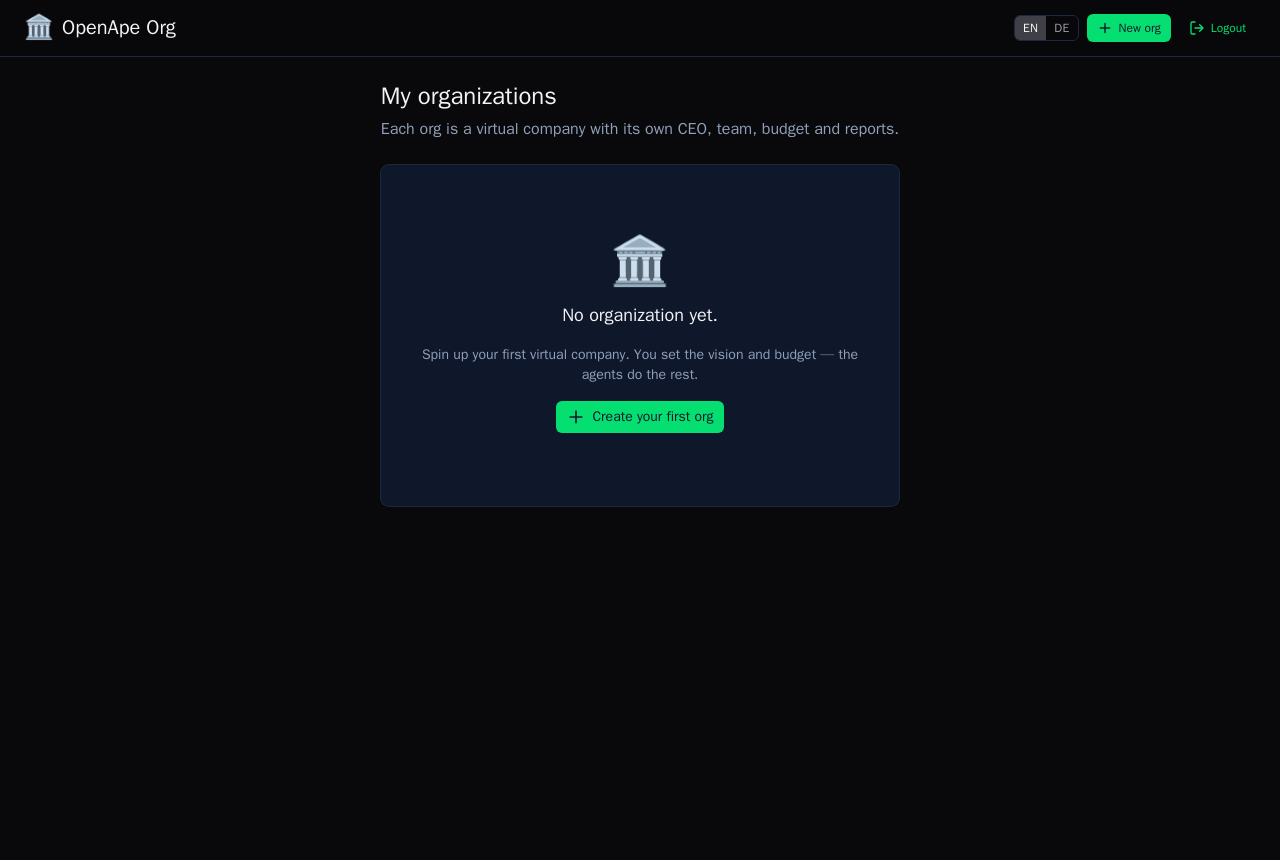
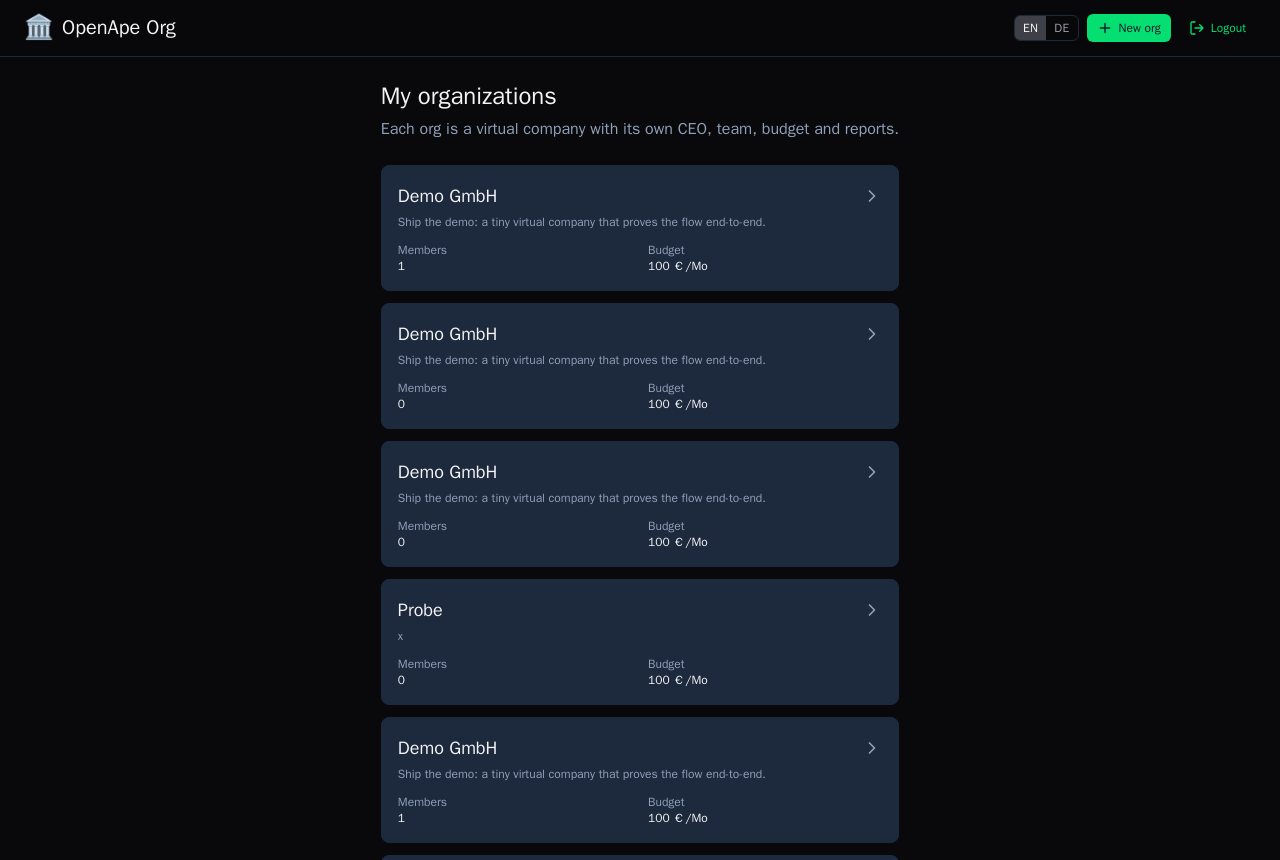
docs(org): 'Add a CEO to your org' guide from E2E
M4: a real end-to-end story (compose/agent/org-ceo.mjs) drives the
cross-SP CEO spawn — create org, add the CEO seat, approve the one-time
delegation consent, CEO goes active — and generates the openape-org
/docs guide. The org guide moves to the agent run (its last story spawns
a real agent, so it needs a bound nest); removed org from the demo run.
Includes the redesign plans.

Changed region(s): [[0.2812, 0.5442, 0.7188, 1.0], [0.2812, 0.2116, 0.7188, 0.514]]

diff --git a/apps/openape-org/app/docs.generated.ts b/apps/openape-org/app/docs.generated.ts
@@ -1,2 +1,2 @@
 // AUTO-GENERATED from docs/stories.json by scripts/build-docs.mjs — do not edit.
-export const docsGuide = {"categories":[{"title":"Getting started","stories":[{"id":"sign-in","title":"Sign in","introHtml":"<p>Org runs your CEO-led agent organizations. Like every OpenApe app it signs you in via DDISA SSO — same passkey, same IdP.</p>\n","steps":[{"title":"Open Org","html":"The start page is the sign-in: enter your email and continue.","shot":"/docs/screenshots/sign-in/01-landing.png"},{"title":"Signed in — your organizations","html":"On first visit the list is empty — each org you create is a virtual company with its own CEO, team, budget and reports.","shot":"/docs/screenshots/sign-in/02-home-empty.png"}]}]},{"title":"Organizations","stories":[{"id":"create-org","title":"Create your first org","introHtml":"<p>An org starts with three things: a name, a vision the CEO will read, and a monthly budget cap the Sanierer enforces.</p>\n","steps":[{"title":"Start a new organization","html":"Click <strong>Create your first org</strong>. The dialog asks for the basics — you can refine the vision and grow the team later.","shot":"/docs/screenshots/create-org/01-dialog.png"},{"title":"Name, vision, budget","html":"The vision is plain prose — the CEO reads it. The monthly budget is the hard cap: above it, the Sanierer stops the CEO from hiring more.","shot":"/docs/screenshots/create-org/02-filled.png"},{"title":"Create","html":"The org page opens: org chart, members, cost dashboard and reports — empty for now, ready for a CEO.","shot":"/docs/screenshots/create-org/03-org-page.png"}]}]}]}
+export const docsGuide = {"categories":[{"title":"Getting started","stories":[{"id":"sign-in","title":"Sign in","introHtml":"<p>Org runs your CEO-led agent organizations. Like every OpenApe app it signs you in via DDISA SSO — same passkey, same IdP.</p>\n","steps":[{"title":"Open Org","html":"The start page is the sign-in: enter your email and continue.","shot":"/docs/screenshots/sign-in/01-landing.png"},{"title":"Signed in — your organizations","html":"On first visit the list is empty — each org you create is a virtual company with its own CEO, team, budget and reports.","shot":"/docs/screenshots/sign-in/02-home-empty.png"}]}]},{"title":"Organizations","stories":[{"id":"create-org","title":"Create your first org","introHtml":"<p>An org starts with three things: a name, a vision the CEO will read, and a monthly budget cap the Sanierer enforces.</p>\n","steps":[{"title":"Start a new organization","html":"Click <strong>Create your first org</strong>. The dialog asks for the basics — you can refine the vision and grow the team later.","shot":"/docs/screenshots/create-org/01-dialog.png"},{"title":"Name, vision, budget","html":"The vision is plain prose — the CEO reads it. The monthly budget is the hard cap: above it, the Sanierer stops the CEO from hiring more.","shot":"/docs/screenshots/create-org/02-filled.png"},{"title":"Create","html":"The org page opens: org chart, members, cost dashboard and reports — empty for now, ready for a CEO.","shot":"/docs/screenshots/create-org/03-org-page.png"}]},{"id":"add-ceo","title":"Add a CEO to your org","introHtml":"<p>Your org&#39;s first hire is a CEO — an agent spawned from a pinned recipe and bound to this org. You approve a one-time delegation at your IdP; from then on the CEO runs on your own nest under your account, reading your vision and proposing objectives.</p>\n","steps":[{"title":"Add the CEO seat","html":"Open <strong>Add member</strong>, choose the <strong>CEO</strong> role and name it. Leave the email blank — the org creates a placeholder seat you fill by spawning. (CEO + Sanierer sit at the top of the chart; the Sanierer keeps the CEO honest about cost.)","shot":"/docs/screenshots/add-ceo/01-add-ceo.png"},{"title":"Approve the one-time delegation","html":"Spawning asks your consent <strong>once</strong>. The IdP shows exactly what org may do on your behalf — <em>spawn agents on your troop</em> — as a standing, revocable grant. This is a top-level redirect to your IdP; org never sees your IdP session. Approve it.","shot":"/docs/screenshots/add-ceo/02-consent.png"},{"title":"The CEO is live","html":"Within seconds the CEO is <strong>active</strong> on your nest, with its own <code>…@id.openape.ai</code> identity. It reads your vision live and starts proposing objectives — and you can revoke the delegation at your IdP any time to cut it off.","shot":"/docs/screenshots/add-ceo/03-active.png"}]}]}]}

diff --git a/.claude/plans/m4-cross-sp-redirect-code.md b/.claude/plans/m4-cross-sp-redirect-code.md
@@ -1,0 +1,91 @@
+# Plan: M4 Cross-SP-Spawn auf Redirect+Code umbauen (CORS raus)
+
+> Supersedet den implementierten M4β-Pfad „B: IdP-CORS + Browser-fetch" zugunsten des
+> ursprünglichen Plan-Intents (Redirect → Code, [[org-plan 01KSYCHBQ7]] M4β Schritt 2-4).
+> Auth-sensibel + Prod-Impact → **Freigabe vor Implementierung**.
+
+## Warum
+Der gebaute Flow lässt den **Browser** (org-Origin) zwei stille Calls gegen den IdP machen
+(`findStandingGrant` + `fetchAuthzJwt`, `credentials:include`) → braucht **CORS-Allowlist +
+`sameSite=none`-Cross-Origin-Cookies** am IdP (`cors-preflight.ts` + `session.ts`). Das ist
+unnötige Angriffsfläche. Patricks Einwand: der Owner ist am IdP authentifiziert — der grant/token-
+Teil gehört als **Top-Level-Redirect** dorthin, der org-**Server** holt das Token server-to-server.
+
+## Ziel-Flow (OAuth Authorization-Code + PKCE, bestehende IdP-Infra wiederverwenden)
+1. **org-Server** baut Authorize-URL zum IdP: `delegate=org.openape.ai, audience=troop.openape.ai,
+   scopes=troop:spawn-agent, grant_type=always, code_challenge=<S256>, redirect_uri=<org-callback>,
+   state=<csrf>, member=<email>`. Browser macht **Top-Level-Navigation** dorthin.
+2. **IdP** (Owner-Session, same-origin): hat der Owner schon einen Standing-Grant
+   (delegate/audience/scope/`always`)? → **ja:** sofort einen **Auth-Code** ausstellen (an
+   `code_challenge`+Grant gebunden). **nein:** die bestehende **Consent-Page** (`grant-cross-sp.vue`)
+   zeigen → Approve erstellt den Standing-Grant (`grant-cross-sp.post.ts`, unverändert) → Auth-Code.
+3. IdP **redirectet zum org-`redirect_uri`** mit `?code=…&state=…` (KEIN JWT in der URL).
+4. **org-Server-Callback** löst den Code am IdP-Token-Endpoint ein (`code` + `code_verifier`,
+   server-to-server, **kein Cookie/kein CORS**) → bekommt den **AuthZ-JWT** (subject_token,
+   `aud=apes-cli, sub=Owner, delegate=org, scopes`). Identisch zum heutigen Token, nur anders geliefert.
+5. org-Server fährt den **bestehenden** Pfad weiter: `troop /api/cli/exchange` → `spawn-intent`
+   → Member-Row `spawnStatus='pending'` → Poll → `active`. (spawn.post.ts bleibt fast unverändert;
+   `subject_token` kommt jetzt aus Schritt 4 statt aus dem Browser.)
+
+**Ergebnis:** Browser macht NUR Navigationen. CORS-Allowlist + sameSite=none für diesen Flow weg.
+
+## Sicherheit (nicht verhandelbar)
+- **PKCE S256** (org generiert `code_verifier`, schickt nur `code_challenge`) → Code-Abfangen nutzlos ohne Verifier. Kein Client-Secret nötig (org-SP ist „public" wie apes-cli).
+- **Code:** one-time, kurz-TTL (≤60s), an `code_challenge` + `delegate` + `redirect_uri` gebunden; Replay-geschützt (consumed-Flag).
+- **`redirect_uri`-Allowlist** am IdP (exakter Match, kein Wildcard) → Open-Redirect/Token-Exfil verhindern. org-Callback-URI vorab registriert (wie apes-cli loopback).
+- **`state`** CSRF-Schutz org-seitig (Session-gebunden).
+- **Owner-Auth weiterhin Pflicht** am IdP (Session) bevor ein Code ausgestellt wird — bei fehlender Session normaler IdP-Login (Passkey).
+- Code-Exchange am IdP authentifiziert den org-SP über `client_id` + PKCE-Verifier (kein geteiltes Secret).
+
+## Betroffene Dateien
+**IdP (`modules/nuxt-auth-idp`):**
+- `…/routes/authorize.get.ts` (+ `api/authorize/consent.*`): Delegation-Modus — Authorize mit
+  `delegate/audience/scopes/grant_type` → Standing-Grant-Check → Code (oder Consent→Code). Möglichst
+  als Erweiterung der bestehenden Authorize/Consent-Maschinerie.
+- `…/routes/token.post.ts` (oder neuer `…/api/grants/authorize-token`): Code+Verifier → **AuthZ-JWT**
+  (statt normalem Access-Token) via vorhandenem `issueAuthzJWT` (heute in `grants/[id]/token.post.ts`).
+- `grant-cross-sp.vue` / `grant-cross-sp.post.ts`: in den Authorize-Flow einhängen (Approve → Code), statt eigenständig `grant_id` per `return_to` zurückzugeben.
+- **Entfernen/zurückbauen:** CORS-Abhängigkeit — `cors-preflight.ts` Allowlist für diesen Flow nicht mehr nötig; `session.ts` sameSite=none nur noch falls anderweitig gebraucht (prüfen!). `grants/index.get.ts?role=delegator` + `grants/[id]/token.post.ts` als Browser-credentials-Pfad nicht mehr aufgerufen (ggf. behalten für andere Consumer — prüfen).
+
+**org (`apps/openape-org`):**
+- `app/pages/orgs/[id].vue`: `findStandingGrant`/`fetchAuthzJwt`/`spawnWithGrant` raus; `onSpawnAgent`
+  → `GET /api/orgs/[id]/members/[email]/spawn-authorize` (org-Server baut Authorize-URL + PKCE, setzt state/verifier in Server-Session) → `window.location` dorthin. Return-Handler entfällt großteils.
+- **NEU** `server/api/orgs/[id]/members/[email]/spawn-authorize.get.ts`: baut Authorize-URL + PKCE.
+- **NEU** `server/routes/oauth/spawn-callback.get.ts` (o.ä.): empfängt `code/state`, validiert state,
+  Code-Exchange am IdP → subject_token → ruft die bestehende Spawn-Logik → redirect zurück auf `/orgs/[id]`.
+- `server/api/orgs/[id]/members/[email]/spawn.post.ts`: zu interner Funktion refactoren, die der Callback
+  mit dem server-seitig geholten subject_token aufruft (kein Body-subject_token aus dem Browser mehr).
+
+**local-stack:** `NUXT_OPENAPE_IDP_CORS_ALLOWED_ORIGINS` (gerade testweise gesetzt) wird **wieder
+entfernt** — der neue Flow braucht es nicht.
+
+## Milestones (je unabhängig verifizierbar, max. 1/Session)
+- **M0 — Baseline & Spike-Findings festhalten.** (DONE im Spike: org-SSO+create-org+add-member laufen
+  im local-stack; einzige Lücke war CORS bei `findStandingGrant`. Beweist: nur der grant/token-Teil ist betroffen.)
+- **M1 — IdP: Delegation-Authorize+Code+Exchange.** Authorize-Endpoint (Delegation-Modus, PKCE) +
+  Token-Exchange→AuthZ-JWT. Unit/Integration: Code one-time, PKCE-Mismatch→reject, redirect_uri-Allowlist,
+  Standing-Grant→skip-Consent. **Akzeptanz:** Test-Suite grün; manueller curl/headless: Authorize→Code→Exchange liefert gültigen AuthZ-JWT (`aud=apes-cli, sub=owner, delegate=org`).
+- **M2 — org: authorize-redirect + server-callback + Spawn refactor.** **Akzeptanz:** im local-stack
+  (Nest gebunden, `--no-deps`) klick-äquivalent: Spawn → Redirect IdP → (Consent) → Callback → CEO `active`.
+  **OHNE** `NUXT_OPENAPE_IDP_CORS_ALLOWED_ORIGINS`.
+- **M3 — CORS/sameSite-Rückbau + Regressions-Check.** Allowlist-Dep entfernen wo möglich; prüfen, dass
+  kein anderer Flow (chat/troop) sie noch braucht. **Akzeptanz:** lint+typecheck+betroffene Tests grün; bestehende cross-SP-Consumer unverändert funktionsfähig.
+- **M4 — E2E-Story + Guide (das ursprüngliche Ziel).** `compose/agent/org-ceo.mjs` fährt den neuen Flow
+  (create-org→CEO-Sitz→Consent-Redirect→CEO aktiv), `distribute-docs.mjs` → org-`/docs`-Guide „Add a CEO".
+  **Akzeptanz:** Re-Run = 0 PNG-Diffs (Determinismus #632); `org.openape.test/docs/add-ceo` rendert; Screenshot an Patrick.
+
+## Rollout / Backward-Compat (Prod)
+- Prod-org+IdP laufen den CORS-Flow. Umstellung: IdP-Seite (neue Authorize/Exchange) ist additiv →
+  zuerst deployen, alter Pfad bleibt. Dann org auf den neuen Flow. Erst danach CORS-Allowlist am IdP entfernen.
+- Reihenfolge der PRs: IdP (additiv) → org (Umschalten) → IdP-Cleanup (CORS raus). Jeder mit grünem CI, getrennt mergebar.
+- Jeder Schritt einzeln deploybar (`deploy:image idp` / `org`), Rollback per Tag-Pin.
+
+## Offene Fragen (vor M1 klären)
+1. **Reuse-Grad:** den bestehenden `authorize.get.ts`/`token.post.ts` erweitern (Delegation-Modus als
+   zusätzlicher `response`-Pfad) ODER dedizierte `…/api/grants/authorize` + `…/authorize-token`? — Tendenz: dedizierter Delegation-Authorize, um den OIDC-Login-Pfad nicht zu verkomplizieren, aber PKCE/Code-Store teilen.
+2. **AuthZ-JWT-TTL** (heute via `grants/[id]/token`): unverändert übernehmen.
+3. **Bleiben `grants/index.get.ts?role=delegator` + `grants/[id]/token.post.ts` als Browser-Endpoints** für
+   andere Consumer (M4δ Owner-Grant-Management)? → falls ja, CORS evtl. nur dort nötig → in M3 prüfen.
+
+## Status
+- [x] M0 Spike-Findings  [ ] M1 IdP  [ ] M2 org  [ ] M3 CORS-Rückbau  [ ] M4 Story+Guide

diff --git a/.claude/plans/org-ceo-e2e-guide.md b/.claude/plans/org-ceo-e2e-guide.md
@@ -1,0 +1,65 @@
+# Plan: E2E-Story + Guide „Einen CEO im Org anlegen"
+
+## Ziel
+Eine **E2E-Story** (`compose/demo/`-Story-DSL), die den echten Flow „Org anlegen → CEO-Mitglied hinzufügen → Cross-SP-Consent → CEO spawnen → CEO aktiv" durchfährt und daraus den **`/docs`-Guide** der org-App generiert (`org.openape.ai/docs` → „Add a CEO to your org"). Test = Quelle der Wahrheit für die Anleitung (Patrick-Prinzip „Manuals aus E2E").
+
+## Kontext / Befund (verifiziert 2026-06-10)
+Der Flow ist **vollständig gebaut**:
+- **Org anlegen:** `POST /api/orgs` + `CreateOrgDialog` → `/orgs/{id}` (Story `create-org` existiert schon in `compose/demo/stories/org.mjs`).
+- **CEO-Mitglied:** `AddMemberDialog` (role-enum `ceo|teamlead|specialist|sanierer|other`), `POST /api/orgs/{id}/members` → Platzhalter-Row `status='invited'`, Platzhalter-Email `pending+<uuid>@org.openape.ai`.
+- **Spawn-Trigger:** Chart-Card „Spawn agent" → `onSpawnAgent()` (`apps/openape-org/app/pages/orgs/[id].vue:186`):
+  - `findStandingGrant()` → `GET {idp}/api/grants?role=delegator` mit `credentials:include` (braucht **CORS-Allowlist + sameSite=none** Cookie am IdP).
+  - Kein Grant → Bounce auf `{idp}/grant-cross-sp?delegate=org.openape.ai&audience=troop.openape.ai&scopes=troop:spawn-agent&grant_type=always&return_to=…` (M4γ Consent-Page; **existiert**: `modules/nuxt-auth-idp/src/runtime/pages/grant-cross-sp.vue` + `…/server/api/grant-cross-sp.post.ts`).
+  - Zurück mit `?grant_id` → `spawnWithGrant()` → `fetchAuthzJwt()` (`POST {idp}/api/grants/{id}/token`) → `POST /api/orgs/{id}/members/{email}/spawn`.
+- **Server-Dance** (`apps/openape-org/server/api/orgs/[id]/members/[email]/spawn.post.ts`): `POST {troop}/api/cli/exchange` (scope `troop:spawn-agent`) → `POST {troop}/api/agents/spawn-intent` mit Recipe-Ref aus `role-defaults.ts` (`github.com/openape-ai/agent-catalog/ceo@v0.1.0`, params `{org_id, org_name}`) → Member-Row cached `spawnIntentId`/`spawnStatus='pending'`.
+- **Poll + PK-Swap:** Frontend pollt `GET …/spawn-status` (2s) → bei Erfolg Platzhalter-Row löschen, echte Agent-Email-Row `status='active'`.
+
+**Recipe-Pfad selbst ist bereits live bewiesen** (diese Session): troop validiert `ceo@v0.1.0` (schedules:[]-Fix #633 deployed) und der Nest provisioniert den Agent (`spawn result ok:true`, IdP-Identity gemintet) — siehe [[reference_local_stack_agent_lifecycle]].
+
+## Kern-Problem (warum > Story-Datei)
+1. **Der Demo-Runner (`compose/demo/run-stories.mjs`) hat KEINEN gebundenen Nest** → der Spawn würde nie „active". Nur der **agent-lifecycle-Run** (`compose/agent/run.sh` → bind.mjs) bindet einen Nest. Die Story muss also im agent-lifecycle-Umfeld laufen, nicht im reinen Demo-Run.
+2. **Cross-SP-Consent (M4γ)** muss in der Story durchfahrbar sein: CORS-Allowlist org→idp im local-stack + Consent-Approval per Virtual-Authenticator. **Beides im local-stack unbestätigt** (kein sichtbares CORS-Env in `compose/local-stack.yml`).
+3. Die Story braucht eine **Org-SP-Session** (DDISA-SSO in die org-App) zusätzlich zur Owner-IdP-Session.
+
+## Empfohlener Ansatz: **A — im agent-lifecycle-Run**
+Neue Story-Datei `compose/agent/org-ceo.mjs` (analog zur diese Session genutzten ceo-spawn-Probe), die NACH `run.sh` (Nest gebunden, Owner-Login provisioniert) läuft, die org-UI über den Virtual-Authenticator-Browser-Context fährt und den Guide-Manifest-Fragment schreibt. So zeigt der Guide den CEO **wirklich aktiv** (echtes E2E), nicht nur „pending".
+
+Alternative B (Fallback, falls Cross-SP im local-stack nicht durchfahrbar): Story im Demo-Run bis „pending"-Card + Consent-Screenshot, Aktivierung im Caption beschrieben. Schwächer (Endzustand beschrieben statt gezeigt) — nur falls A an einem nicht-vertretbaren local-stack-Gap scheitert.
+
+## Milestones (je unabhängig verifizierbar, max. 1/Session)
+
+### M1 — Spike: Flow im laufenden local-stack manuell durchfahren (DE-RISK)
+Bevor Story-Code: beweisen, dass org→CEO-Spawn im local-stack E2E geht.
+- Skript/headless (Virtual-Authenticator) im laufenden Stack (Nest ist gebunden): org.openape.test einloggen (SSO) → org anlegen → CEO-Member adden → „Spawn agent" → Consent → zurück → poll → `status='active'`.
+- **Knackpunkte zu klären:** (a) CORS: erlaubt der local-idp `org.openape.test` als Origin für `credentials:include`? Falls nein → `NUXT_OPENAPE_*CORS*`/Allowlist-Env in `compose/local-stack.yml` ergänzen (idp). (b) Consent-Auto-Approve per Virtual-Authenticator (wie andere DDISA-Approvals in den Stories). (c) troop `/api/cli/exchange` akzeptiert das org-delegierte Token im local-stack.
+- **Akzeptanz:** ein manuell/skriptgetriebener Durchlauf endet mit org-Member-Row `status='active'` + realer `ceo-…@id.openape.test`-Email (DB-Query oder UI-Card „active"). Beobachtbarer Output gezeigt.
+- **Output des Milestones:** dokumentierte exakte Schritte/Selektoren/etwaige local-stack-Env-Fixes → Input für M2.
+
+### M2 — Story schreiben + verdrahten
+- `compose/agent/org-ceo.mjs`: `kit.story({ app:'openape-org', category:'Organizations', id:'add-ceo', title:'Add a CEO to your org', … })` mit Steps (+ Captions als Guide-Text):
+  1. „Create the organization" (Name/Vision/Budget) — *shot*
+  2. „Add the CEO seat" (AddMemberDialog, role=CEO) — *shot*
+  3. „Approve the one-time delegation" (Consent-Page erklärt: org darf in deinem Namen einen Agent auf troop spawnen) — *shot*
+  4. „Spawn the CEO" (Card pending → active) — *shot*
+  5. „Your CEO is live" (aktive Card, reads vision) — *shot*
+- In `compose/agent/run.sh` nach `lifecycle.mjs` (oder als eigener Schritt) `pw org-ceo.mjs` aufrufen; `compose/distribute-docs.mjs` verteilt das Fragment in die org-App (`apps/openape-org/public/docs/stories.json` + screenshots).
+- Determinismus: `installDeterminism(page)` nutzen (#632) → byte-stabile Screenshots.
+- **Akzeptanz:** `lint`+`typecheck` grün; Story-Datei folgt dem DSL-Vertrag (`story-kit.mjs`).
+
+### M3 — Capture + Guide verifizieren + zeigen
+- Vollen agent-lifecycle-Run inkl. `org-ceo.mjs` fahren → screenshots + `stories.json` der org-App.
+- org-App `/docs` rendern (headless Chrome) → Guide „Add a CEO to your org" sichtbar, alle Shots vorhanden.
+- **Akzeptanz:** (a) Re-Run ohne Code-Änderung = 0 geänderte PNGs (Determinismus, #632). (b) `org.openape.test/docs/add-ceo` zeigt 5 Steps mit Bildern. (c) Screenshot des gerenderten Guides per SendUserFile an Patrick.
+
+## Risiken / offene Fragen
+- **R1 (hoch):** Cross-SP-CORS im local-stack evtl. nicht konfiguriert → M1 muss ggf. idp-Env ergänzen. Falls die Allowlist hart an `*.openape.ai` hängt (nicht `.test`), kleiner Code-/Config-Fix nötig.
+- **R2 (mittel):** Consent-Approval headless — ob `grant-cross-sp.vue` per Virtual-Authenticator ohne Extra-Tap approvebar ist (sollte wie die anderen DDISA-Approvals gehen).
+- **R3 (niedrig):** 2 bestehende agent-Stories sind flaky (UI-Click-Timeout) — die org-Story muss robuste Selektoren/Waits nutzen.
+- **R4 (niedrig):** Demo- vs. agent-lifecycle-Runner-Trennung: der org-Guide-Fragment muss korrekt über `distribute-docs.mjs` in die org-App fließen (heute verteilt der agent-Run u.a. idp/troop-Agent-Stories — org ergänzen).
+
+## Entscheidung nötig (vor M2)
+1. **Ansatz A (echtes E2E mit aktivem CEO) bestätigen** vs. B (Demo-Run bis pending). → Empfehlung A.
+2. M1-Spike jetzt starten? (läuft gegen den bereits gebundenen local-stack — schnellster Weg, R1/R2 zu klären.)
+
+## Status
+- [ ] M1 Spike  [ ] M2 Story  [ ] M3 Capture+Verify